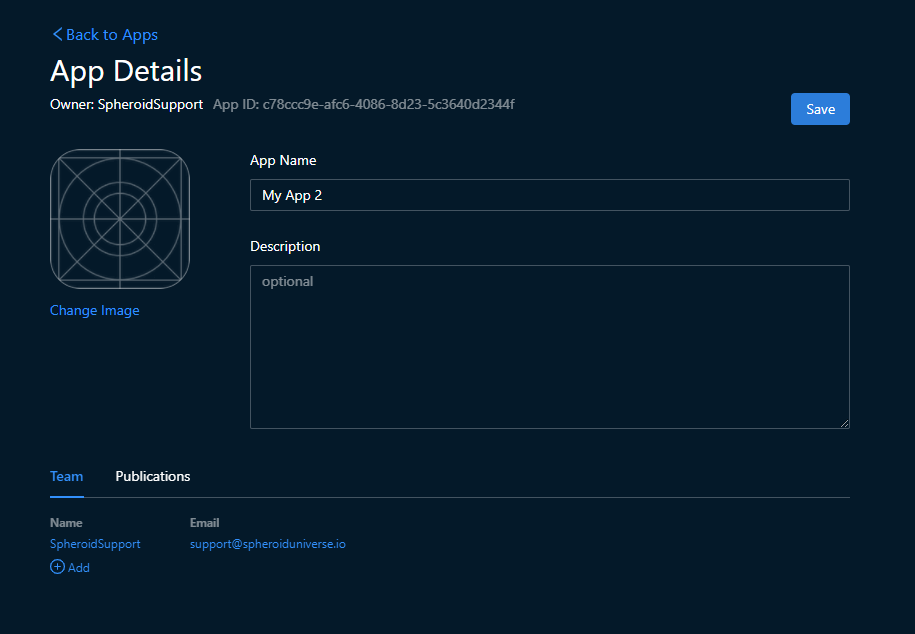
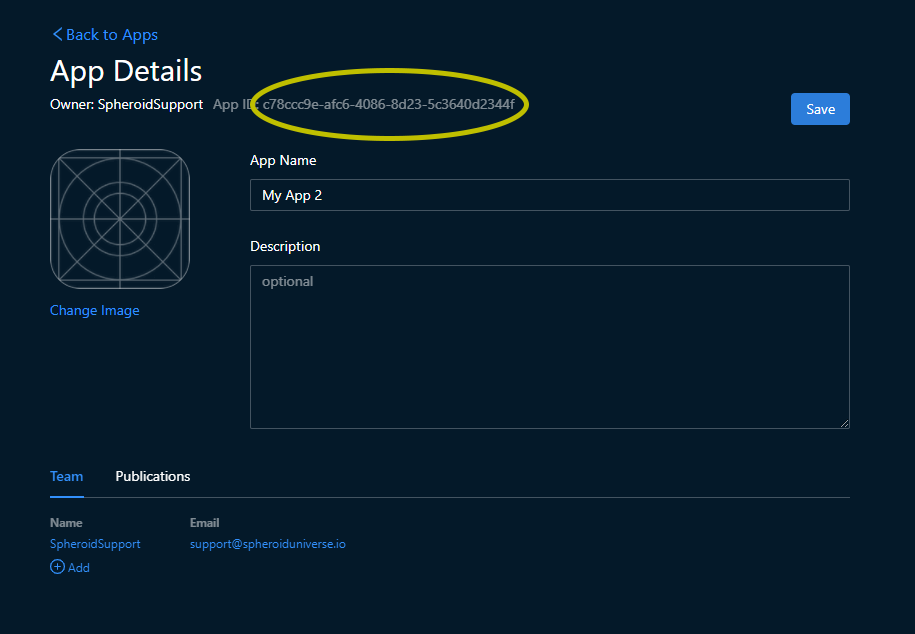
Docs: images, issues

Changed region(s): [[0.2754, 0.0899, 0.5814, 0.2397]]

diff --git a/docs/issues.md b/docs/issues.md
@@ -10,28 +10,23 @@ to other developers.
 You need to be registered in GitHub before submitting an issue. 
 If you don't have an account yet, sign up [here](https://github.com/).
 
-## Provide an app id
+## Share access and provide an app id
 
-In some cases, for example app malfunctioning, code not compiling, our support managers 
-will ask you to provide an app id. You can also provide it before being asked if you feel 
-that your issue is connected to a specific app.
+The best and fastest way to find a solution to your issue is to reproduce it, 
+i.e. to look at your app and repeat your actions that cause an error. 
+This is why we ask you to share access to your app 
+to our support account and provide an app id.
 
-If you want to find an app id, open the "Apps" tab and open the app details page 
+[Add a team member](team-member-add.md) to your app 
+(full name: SpheroidSupport, email: support@spheroiduniverse.io).
+
+You can find app id on the app page. Open the "Apps" tab and open the app details page 
 by clicking on the preview. You will see the unique app id next to the owner name.
-In some cases, you also find app id in logs that appear in the bottom pane in the "IDE" tab 
-while compiling or while working on the mobile device.
 
 ![](images/app-id-app-details.png)
 
+You can also find app id in logs that appear in the bottom pane 
+while compiling or while working on the mobile device.
+
 ![](images/app-id-logs.png)
-
-## Share the access to your app
-
-Also, our support managers may ask you to share the access to your app to our official 
-support account. We understand that the app contents are your intellectual property and 
-respect this, so sharing access is absolutely voluntarily. 
-However, in some cases the best and fastest way 
-to find a solution is for our support managers to look at your app and repeat your actions 
-that cause an error. If you will be willing to share access, you will need to 
-[add a new team member](team-member-add.md) to your app 
-(full name: SpheroidSupport, email: support@spheroiduniverse.io). 
+ 

diff --git a/docs/team-member-add.md b/docs/team-member-add.md
@@ -11,10 +11,10 @@ and open the app details by clicking on the preview.
 Click the "Add" button below the list of team members in the "Team" tab. If you don't see 
 the "Add" button, it means you're not an owner of this app and therefore can't add a new member.
 
+![](images/team-member-add-1.png)
+
 When the dialog comes up, enter an email and a full name of the new team member and then 
 press "Add" and "Save".
-
-![](images/team-member-add-1.png)
 
 ![](images/team-member-add-2.png)
 
